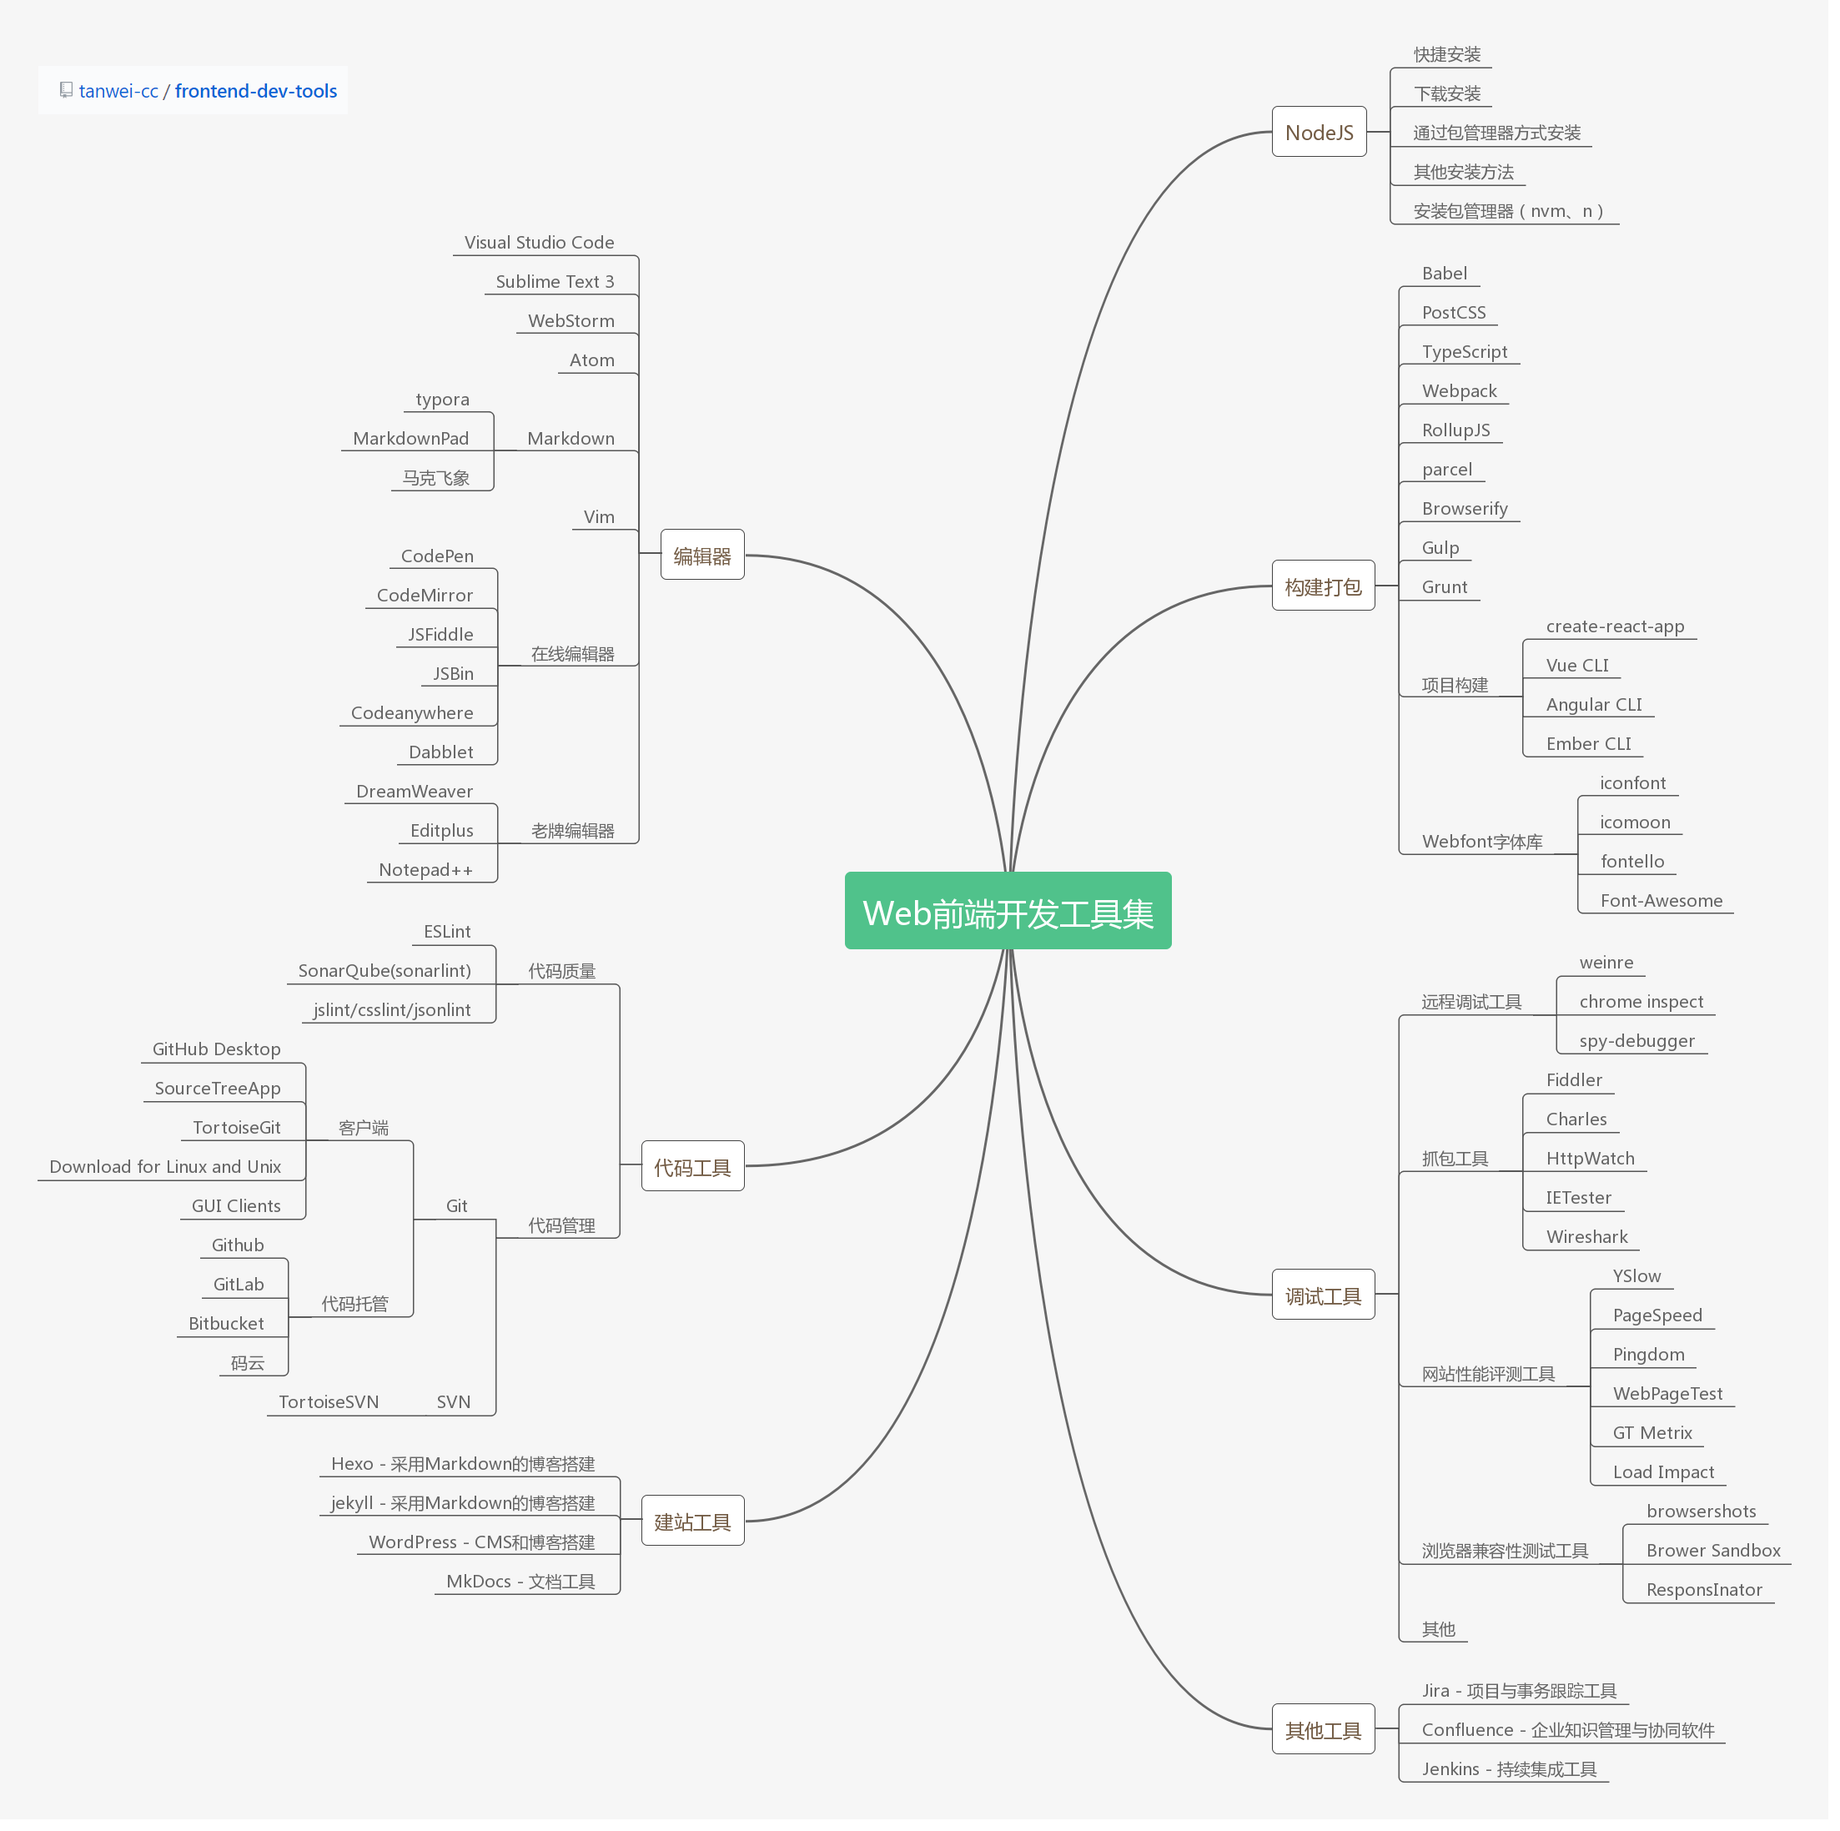
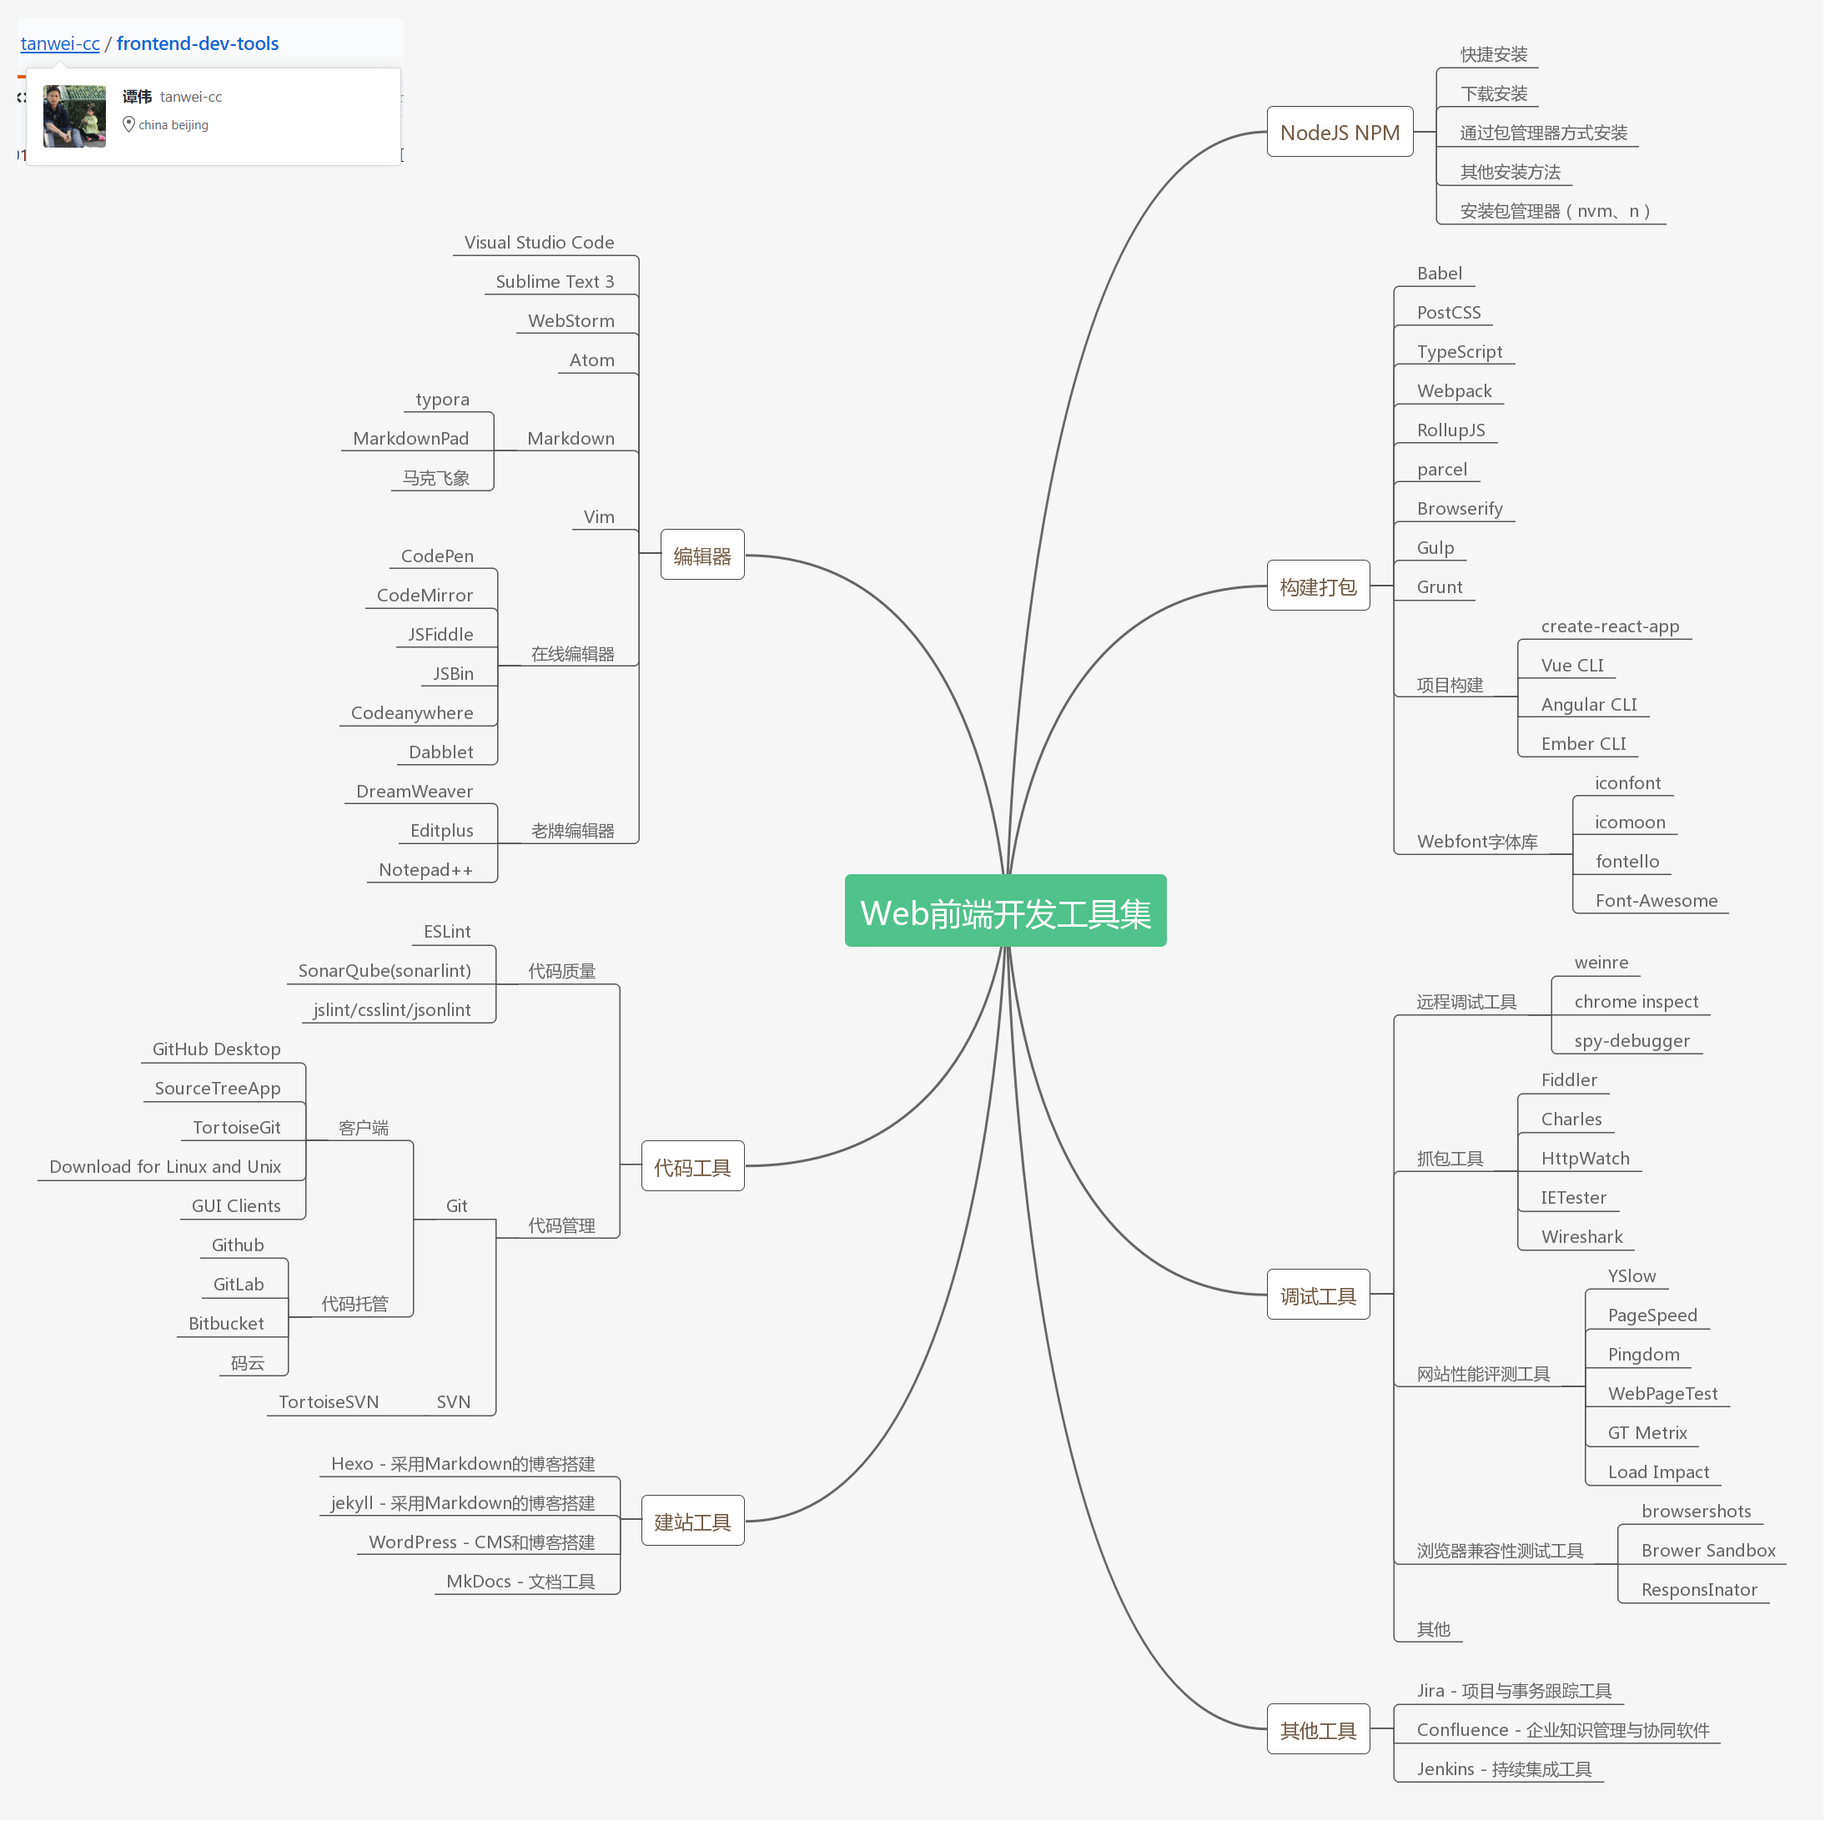
add suport for english

diff --git a/编辑器/index.en.md b/编辑器/index.en.md
@@ -1,0 +1,65 @@
+# 编辑器
+
+## [Visual Studio Code](https://code.visualstudio.com)【highly recommended】
+
+A free, open source, modern lightweight code editor from 2015 that supports Mac OS X, Windows and Linux and supports syntax highlighting, smart code completion, custom shortcuts, and parentheses for almost all major development languages. Match and color distinction.
+
+## [Sublime Text 3](http://www.sublimetext.com/3)【recommended】
+
+Sublime Text 3 is a cross-platform code free editor that can write code and edit text. It is an indispensable tool for programmers. Compared with the previous version of Sublime Text, it has greatly improved support for code completion. Code folding, custom skin and more, supporting multiple languages and multiple operating systems.
+
+## [WebStorm](https://www.jetbrains.com/webstorm/download/)
+
+WebStorm is a JavaScript development tool from Jetbrains (charged). It has been praised by the majority of Chinese JS developers as "Web Front End Development Artifact", "The Most Powerful HTML5 Editor", "The Most Intelligent JavaScript IDE" and so on. It is native to IntelliJ IDEA and inherits the power of the powerful JS part of IntelliJ IDEA.
+
+## [Atom](https://atom.io/)
+
+Atom is a cross-platform text editor for Github specifically for programmers. It has a simple and intuitive graphical user interface and has many interesting features: support for web programming languages such as CSS, HTML, and JavaScript. It supports macros, automates the split screen function, and integrates with the file manager.
+
+## Markdown
+
+### [typora](https://typora.io/)
+
+Typora is a lightweight and compact Markdown editor that supports instant rendering technology and supports OS X, Windows, and Linux.
+
+### [MarkdownPad 2](http://markdownpad.com/download.html)
+
+MarkdownPad 2 is a lightweight and simple Markdown editor that supports instant rendering technology and supports Windows.
+
+### [马克飞象](https://maxiang.io/)
+
+Mark Fly is a Markdown editor for Evernote. It has a simple and elegant interface, supports instant local save, export Markdown, PDF, HTML, and sync Evernote.
+
+## [Vim](https://www.vim.org/)
+
+Vim is a powerful, highly customizable text editor from Vi that runs primarily under Linux
+
+## Online editor
+
+### [CodePen](http://codepen.io/)
+
+CodePen is a browser-free online code editor for developers of any skill, especially those who have improved the code. Mainly focused on front-end languages such as HTML, CSS, JavaScript and pre-transformed content. Handle grammar.
+
+### [CodeMirror](https://codemirror.net/)
+
+Short and succinct, very scalable, it is the base library of many famous online code editors. It has many features, and open source is suitable for secondary development.
+
+- [Open source address](https://github.com/codemirror/CodeMirror/)
+
+### [JSFiddle](https://jsfiddle.net/)
+
+### [JSBin](http://jsbin.com/)
+
+### [Codeanywhere](https://codeanywhere.com/)
+
+Codeanywhere is an online code editor that features code to support FTP Server, Dropbox, Github upload code anytime, anywhere.
+
+### [Dabblet](http://dabblet.com/)
+
+Dabblet's interface is very simple, simple to operate, and supports HTML5 tags and CSS3 styles very well.
+
+## Old editor
+
+- [DreamWeaver](https://www.adobe.com/ca/products/dreamweaver.html) 【Not recommended】
+- [Editplus](https://www.editplus.com/) 【Not recommended】
+- [Notepad++](https://notepad-plus-plus.org/)  【Not recommended】

diff --git a/构建打包/index.en.md b/构建打包/index.en.md
@@ -1,0 +1,66 @@
+# Build package
+
+Webpack is currently the most popular JavaScript module packaging tool, and rollupjs has many well-known libraries in use such as: react, vue, ember, preact, three.js, moment, etc., probably because rollupjs is simple and powerful.
+
+## [Babel](https://www.babeljs.cn)
+
+Babel is a JavaScript compiler. With it, you can use the next generation (ES6, 7, 8, ..) JavaScript syntax programming! Convert to backward-compatible JavaScript syntax by syntax to support older browsers.
+
+## [PostCSS](https://www.postcss.com.cn/)
+
+Is a tool for converting CSS code with JavaScript tools and plugins
+
+## [TypeScript](https://www.tslang.cn/)
+
+Produced by Microsoft in 2012, it is a superset of JavaScript that runs on any browser, any computer and operating system, and is open source.
+
+## [Webpack](https://webpack.js.org/)
+
+Webpack is a module packer. Package JavaScript files together for running in a browser. Support code splitting, on-demand loading, modular (CommonJS, AMD, ES6 module, CSS, image, JSON, Coffeescript, LESS, etc.).
+
+[Chinese website](https://www.webpackjs.com/)
+
+## [RollupJS](https://www.rollupjs.com/)
+
+Like webpack, Rollup uses a new, standardized format for code modules, which are included in the ES6 version of JavaScript, rather than previous special solutions such as CommonJS and AMD. The ES6 module gives you the freedom and seamless use of the most useful stand-alone functions in your favorite library, and your project doesn't have to carry other unused code. The ES6 module will eventually be natively implemented by the browser, but the current Rollup will allow you to experience it in advance.
+
+## [parcel](https://parceljs.org/)
+
+Similar to webpack, the extremely fast zero-configuration web application packaging tool, with superior performance and simple configuration, is suitable for simple websites or applications.
+
+## [Browserify](http://browserify.org/)
+
+Similar to webpack, organize browser-side Javascript code in a way similar to node's require('modules').
+
+### [Gulp](https://www.gulpjs.com.cn/)
+
+The nodejs-based steam stream packaging script is easy to learn and use, clear in code, and uses less than half the amount of Grunt code.
+
+### [Grunt](https://www.gruntjs.net/)
+
+The oldest packaging tools, all of which are configured to agree to package scripts, which are costly and flexible.
+
+## Project construction
+
+### [create-react-app](https://github.com/facebook/create-react-app)
+
+Standard project build tool developed by React, produced by the FaceBook React team
+
+### [Vue CLI](https://cli.vuejs.org/zh/)
+
+Standard project build tool developed by Vue.js
+
+### [Angular CLI](https://cli.angular.io/)
+
+Standard project build tool developed by Angularjs
+
+### [Ember CLI](https://ember-cli.com/)
+
+Standard project build tool developed by Emberjs
+
+### Webfont font library
+
+- [iconfont](https://www.iconfont.cn/)
+- [icomoon](https://icomoon.io/)
+- [fontello](http://fontello.com/)
+- [Font-Awesome](https://fontawesome.com/)

diff --git a/NodeJS/index.en.md b/NodeJS/index.en.md
@@ -1,0 +1,67 @@
+# Nodejs
+
+## 快捷安装
+
+### Ubuntu
+
+```bash
+sudo apt-get update
+sudo apt-get install -y python-software-properties software-properties-common
+sudo add-apt-repository ppa:chris-lea/node.js
+
+sudo apt-get update
+sudo apt-get install nodejs
+sudo apt install nodejs-legacy
+sudo apt install npm
+
+# OR
+
+nvm install latest # 先安装nvm，安装方法在下面
+```
+
+### macOS
+
+```bash
+curl "https://nodejs.org/dist/latest/node-${VERSION:-$(wget -qO- https://nodejs.org/dist/latest/ | sed -nE 's|.*>node-(.*)\.pkg</a>.*|\1|p')}.pkg" > "$HOME/Downloads/node-latest.pkg" && sudo installer -store -pkg "$HOME/Downloads/node-latest.pkg" -target "/"
+# OR
+brew install node
+# OR
+port install nodejs<major version>  # port install nodejs7
+```
+
+## 下载安装
+
+[下载地址](https://nodejs.org/zh-cn/download/)
+
+## 通过包管理器方式安装
+
+- [安装地址](https://nodejs.org/zh-cn/download/package-manager/)
+
+## 其他安装方法
+
+- [在 Linux 上，通过二进制文件安装 Node.js](https://github.com/nodejs/help/wiki/Installation)
+- [在支持的平台上，使用源代码构建 Node.js](https://github.com/nodejs/node/blob/master/BUILDING.md#building-nodejs-on-supported-platforms)
+
+## 安装包管理器
+
+选择nvm或n，作为Nodejs包管理工具
+
+### nvm
+
+- [nvm安装或升级](https://github.com/nvm-sh/nvm#installation-and-update)
+
+### n
+
+```bash
+sudo npm install n -g
+sudo n stable #安装最新的nodejs（stable版本）
+sudo node -v
+```
+
+## NPM设置
+
+```bash
+# 更新npm的包镜像源，方便快速下载
+sudo npm config set registry https://registry.npm.taobao.org
+sudo npm config list
+```

diff --git a/调试工具/index.en.md b/调试工具/index.en.md
@@ -1,0 +1,35 @@
+# Debugging tool
+
+## Remote debugging tool
+
+- [weinre](http://people.apache.org/~pmuellr/weinre/docs/latest/Installing.html)
+- [chrome inspect](http://wiki.jikexueyuan.com/project/chrome-devtools/remote-debugging-on-android.html)
+- [spy-debugger](https://github.com/wuchangming/spy-debugger)
+
+## Capture tool
+
+- [Fiddler](https://www.telerik.com/fiddler)
+- [Charles](https://www.charlesproxy.com/)
+- [HttpWatch](https://www.httpwatch.com/)
+- [IETester](https://ietester.en.softonic.com/)
+- [Wireshark](https://www.wireshark.org/download.html)
+
+## Website performance evaluation
+
+- [YSlow](http://yslow.org/)
+- [PageSpeed](http://developers.google.com/speed/pagespeed/insights/)
+- [Pingdom](http://tools.pingdom.com/fpt/)
+- [WebPageTest](https://www.webpagetest.org/)
+- [GT Metrix](https://gtmetrix.com/)
+- [Load Impact](https://loadimpact.com/)
+
+## Browser compatibility test
+
+- [browsershots](http://browsershots.org/)
+- [Brower Sandbox](https://turbo.net/browsers)
+- [ResponsInator - Online mobile phone page test tool](http://www.responsinator.com/)
+
+## Other
+
+- [User Agent String](http://www.useragentstring.com/)
+- [Website speed](https://www.17ce.com/)

diff --git a/代码工具/index.en.md b/代码工具/index.en.md
@@ -1,0 +1,42 @@
+# Code tool
+
+## Code quality
+
+### [ESLint](https://eslint.org)
+
+ESLint is a plug-in and configurable JavaScript grammar rule and code style checker.
+
+### [SonarQube](https://www.sonarqube.org/)
+
+An open source platform is used to manage the quality of source code. It is not only a quality data reporting tool, but also a code quality management platform.
+
+- [sonarlint](https://www.sonarlint.org/intellij/)
+
+### Other
+
+- [jslint](http://www.jslint.com/)
+- [csslint](https://github.com/CSSLint/csslint)
+- [jsonlint](https://jsonlint.com/)
+
+## Code management
+
+### Git
+
+#### Git Client
+
+- [GitHub Desktop](https://desktop.github.com/)
+- [SourceTreeApp](https://www.sourcetreeapp.com/)
+- [TortoiseGit](https://tortoisegit.org/download/)
+- [Download for Linux and Unix](https://git-scm.com/download/linux)
+- [GUI Clients](https://git-scm.com/downloads/guis)
+
+#### Code hosting
+
+- [Github](https://github.com/)
+- [GitLab](https://git.lug.ustc.edu.cn/)
+- [Bitbucket](https://bitbucket.org/)
+- [码云](https://gitee.com/)
+
+### SVN
+
+- [TortoiseSVN](https://tortoisesvn.net/)

diff --git a/建站工具/index.en.md b/建站工具/index.en.md
@@ -1,0 +1,17 @@
+# Site building tool
+
+## [Hexo](https://github.com/hexojs/hexo/)
+
+Hexo is a tool for blog sites based on node.js. It writes articles via markdown and generates static html pages via Hexo.
+
+## [jekyll](https://github.com/jekyll/jekyll)
+
+Like Hexo, it supports Markdown (or Textile), Liquid, and is written in ruby.
+
+## [wordpress](https://cn.wordpress.org/)
+
+WordPress is a free and open source CMS project developed in PHP. The number of plugins is tens of thousands. It can be used to build blogs and build other websites.
+
+## [MkDocs](https://github.com/mkdocs/mkdocs)
+
+MkDocs is a Markdown project documentation tool developed in Python, a fast, simple, and gorgeous static site generator for creating project documentation. Document source code is written using Markdown, using a YAML file as a configuration document.

diff --git a/其他工具/index.en.md b/其他工具/index.en.md
@@ -1,0 +1,13 @@
+# Other tools
+
+## [Jira](https://www.atlassian.com/zh/software/jira)
+
+Web front-end development toolset, new tools will be added or removed over time, keep new and popular toolsets, and keep updating...
+
+## [Confluence](https://www.atlassian.com/zh/software/confluence)
+
+Confluence is a practical enterprise knowledge management and collaboration software from Atlassian to help document teamwork, share information, brainstorm, and more.
+
+## [Jenkins](https://jenkins.io/zh/)
+
+Jenkins is an open source, extensible, continuous integration, delivery, build, deployment, and automation tool based on Java development. The number of plugins exceeds 1000 and is handled through the web interface.

diff --git a/README.en.md b/README.en.md
@@ -1,0 +1,24 @@
+# Web front-end development toolset
+
+**[Switch Chinese](./README.md)**
+
+> Web front-end development toolset, new tools will be added or removed over time, keep new and popular toolsets, and keep updating...
+
+![mind map](./mind-map.en.png)
+
+## [NodeJS NPM](./NodeJS/index.en.md)
+
+## [Editor](./编辑器/index.en.md)
+
+## [Build package](./构建打包/index.en.md)
+
+## [Code tool](./代码工具/index.en.md)
+
+- Code quality
+- Code management
+
+## [Debugging tool](./调试工具/index.en.md)
+
+## [Site building](./建站工具/index.en.md)
+
+## [Other tools](./其他工具/index.en.md)

diff --git a/编辑器/index.md b/编辑器/index.md
@@ -42,7 +42,7 @@ CodePen 是一个浏览器自由的在线代码编辑器，适合任何技能的
 
 ### [CodeMirror](https://codemirror.net/)
 
-> 短小精悍，扩展性非常强，它是许多大名鼎鼎的在线代码编辑器的基础库，它的特点非常多，开源适合二次开发。
+短小精悍，扩展性非常强，它是许多大名鼎鼎的在线代码编辑器的基础库，它的特点非常多，开源适合二次开发。
 
 - [开源地址](https://github.com/codemirror/CodeMirror/)
 

diff --git a/README.md b/README.md
@@ -1,10 +1,12 @@
 # Web前端开发工具集
 
-Web前端开发工具集，随时间会新增或淘汰一些工具，保持新的与流行的工具集，持续更新...
+**[Switch English](./README.en.md)**
+
+> Web前端开发工具集，随时间会新增或淘汰一些工具，保持新的与流行的工具集，持续更新...
 
 ![mind map](./mind-map.png)
 
-## [NodeJS](./NodeJS/index.md)
+## [NodeJS NPM](./NodeJS/index.md)
 
 ## [编辑器](./编辑器/index.md)
 
